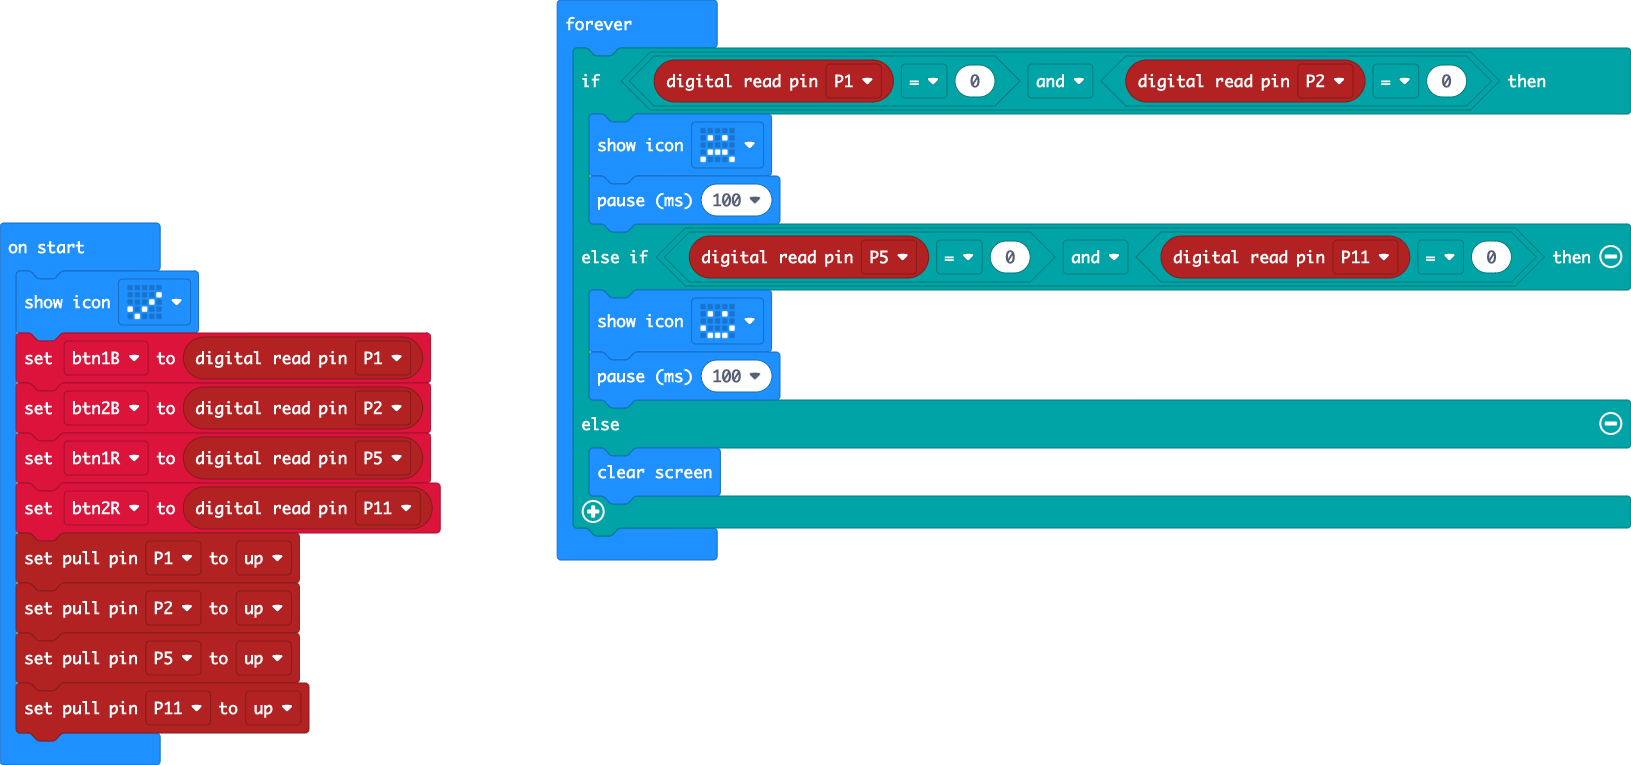
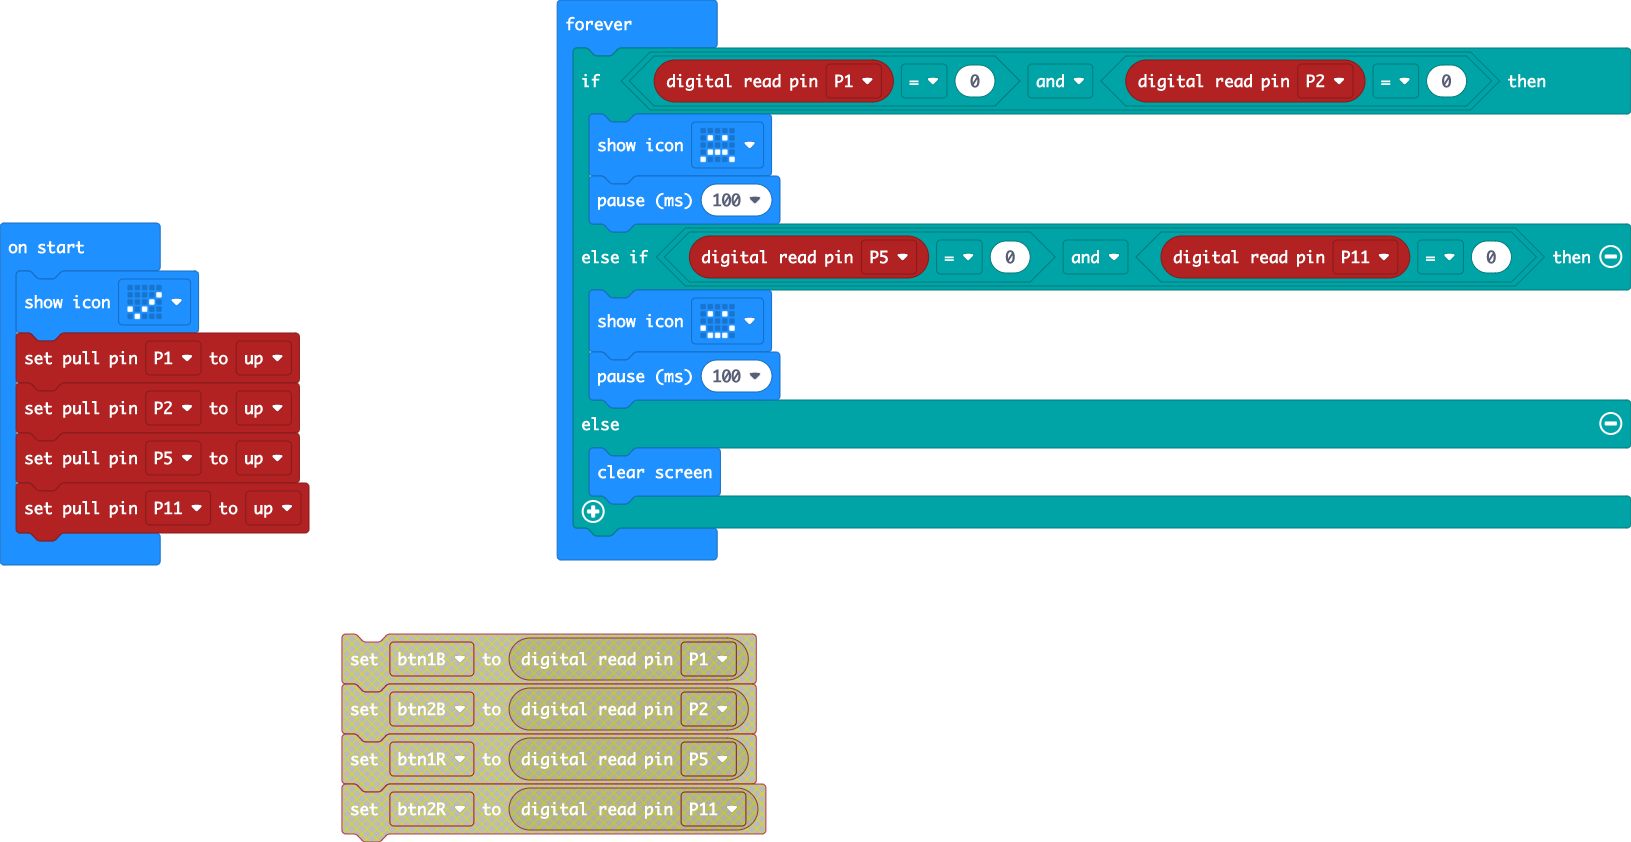
don't need variable

diff --git a/main.ts b/main.ts
@@ -1,8 +1,4 @@
 basic.showIcon(IconNames.Yes)
-let btn1B = pins.digitalReadPin(DigitalPin.P1)
-let btn2B = pins.digitalReadPin(DigitalPin.P2)
-let btn1R = pins.digitalReadPin(DigitalPin.P5)
-let btn2R = pins.digitalReadPin(DigitalPin.P11)
 pins.setPull(DigitalPin.P1, PinPullMode.PullUp)
 pins.setPull(DigitalPin.P2, PinPullMode.PullUp)
 pins.setPull(DigitalPin.P5, PinPullMode.PullUp)
